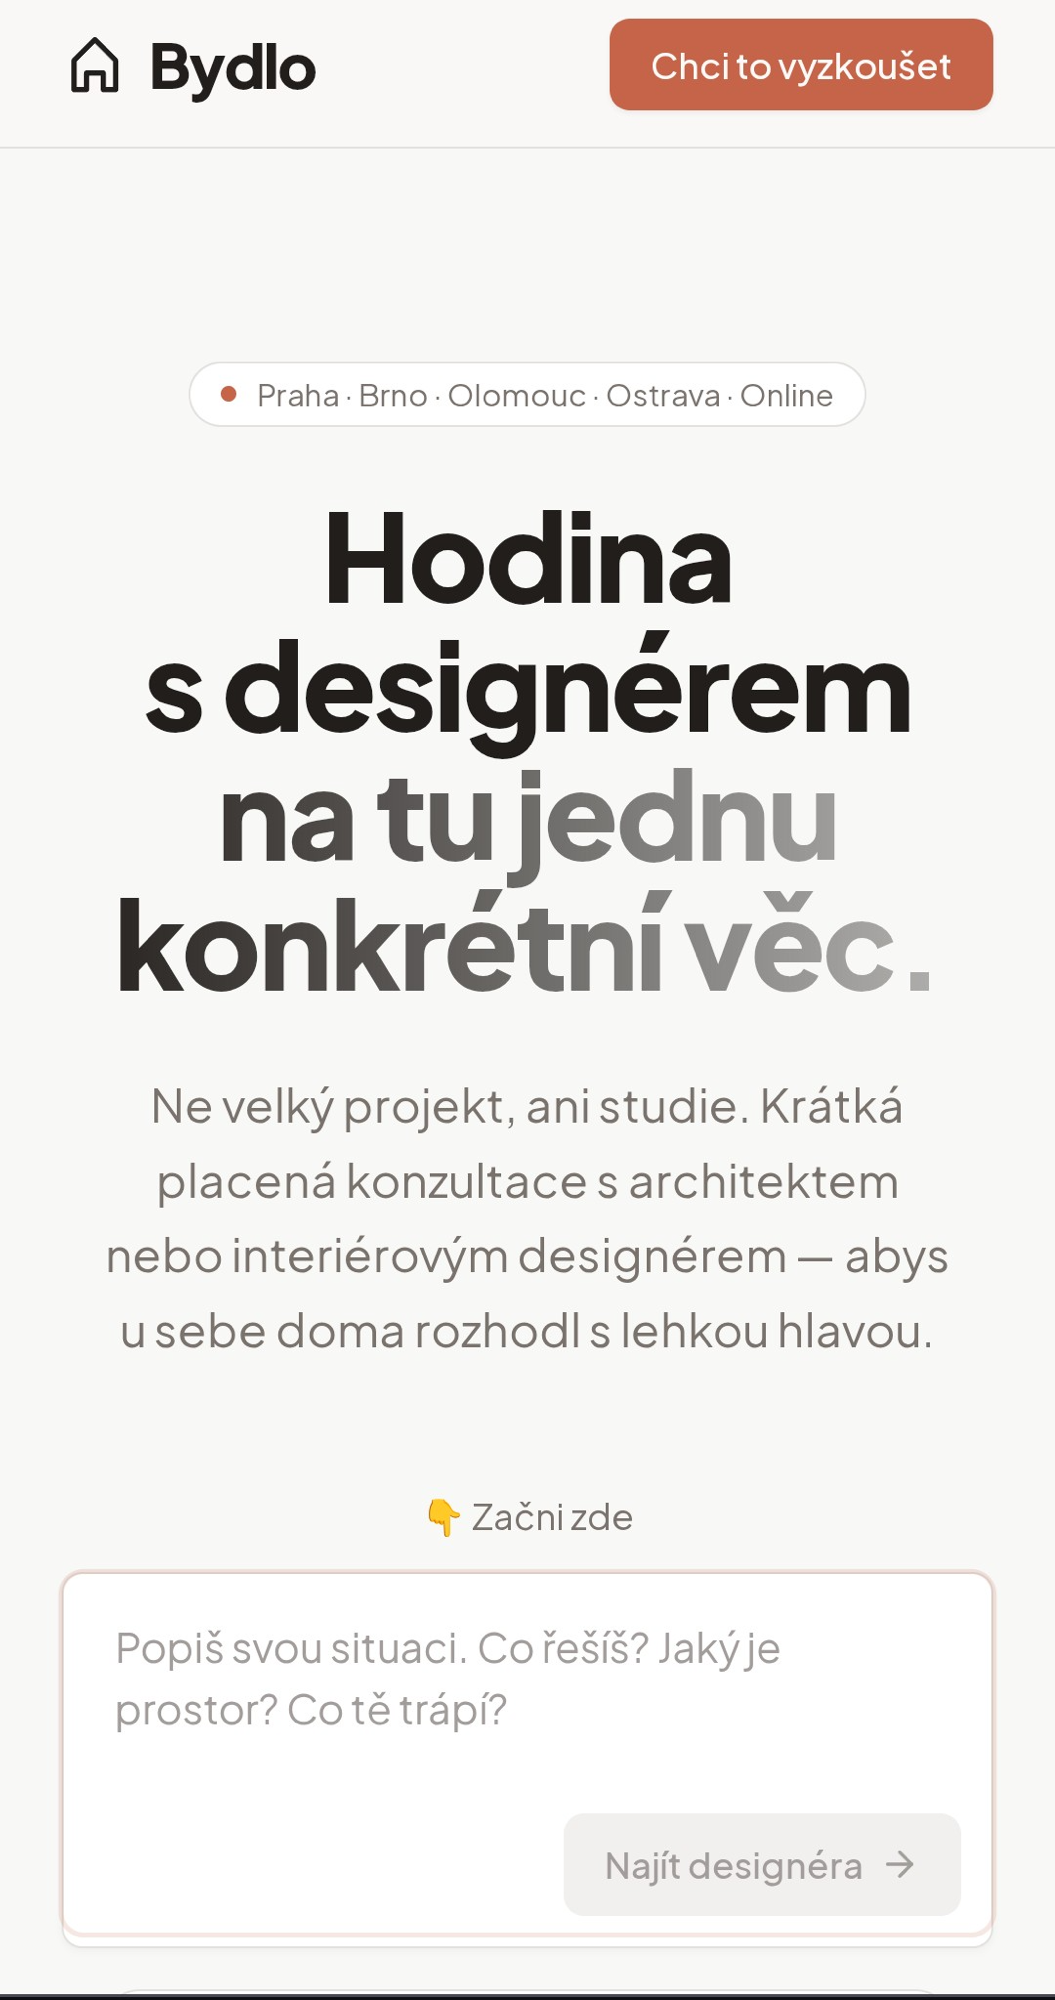
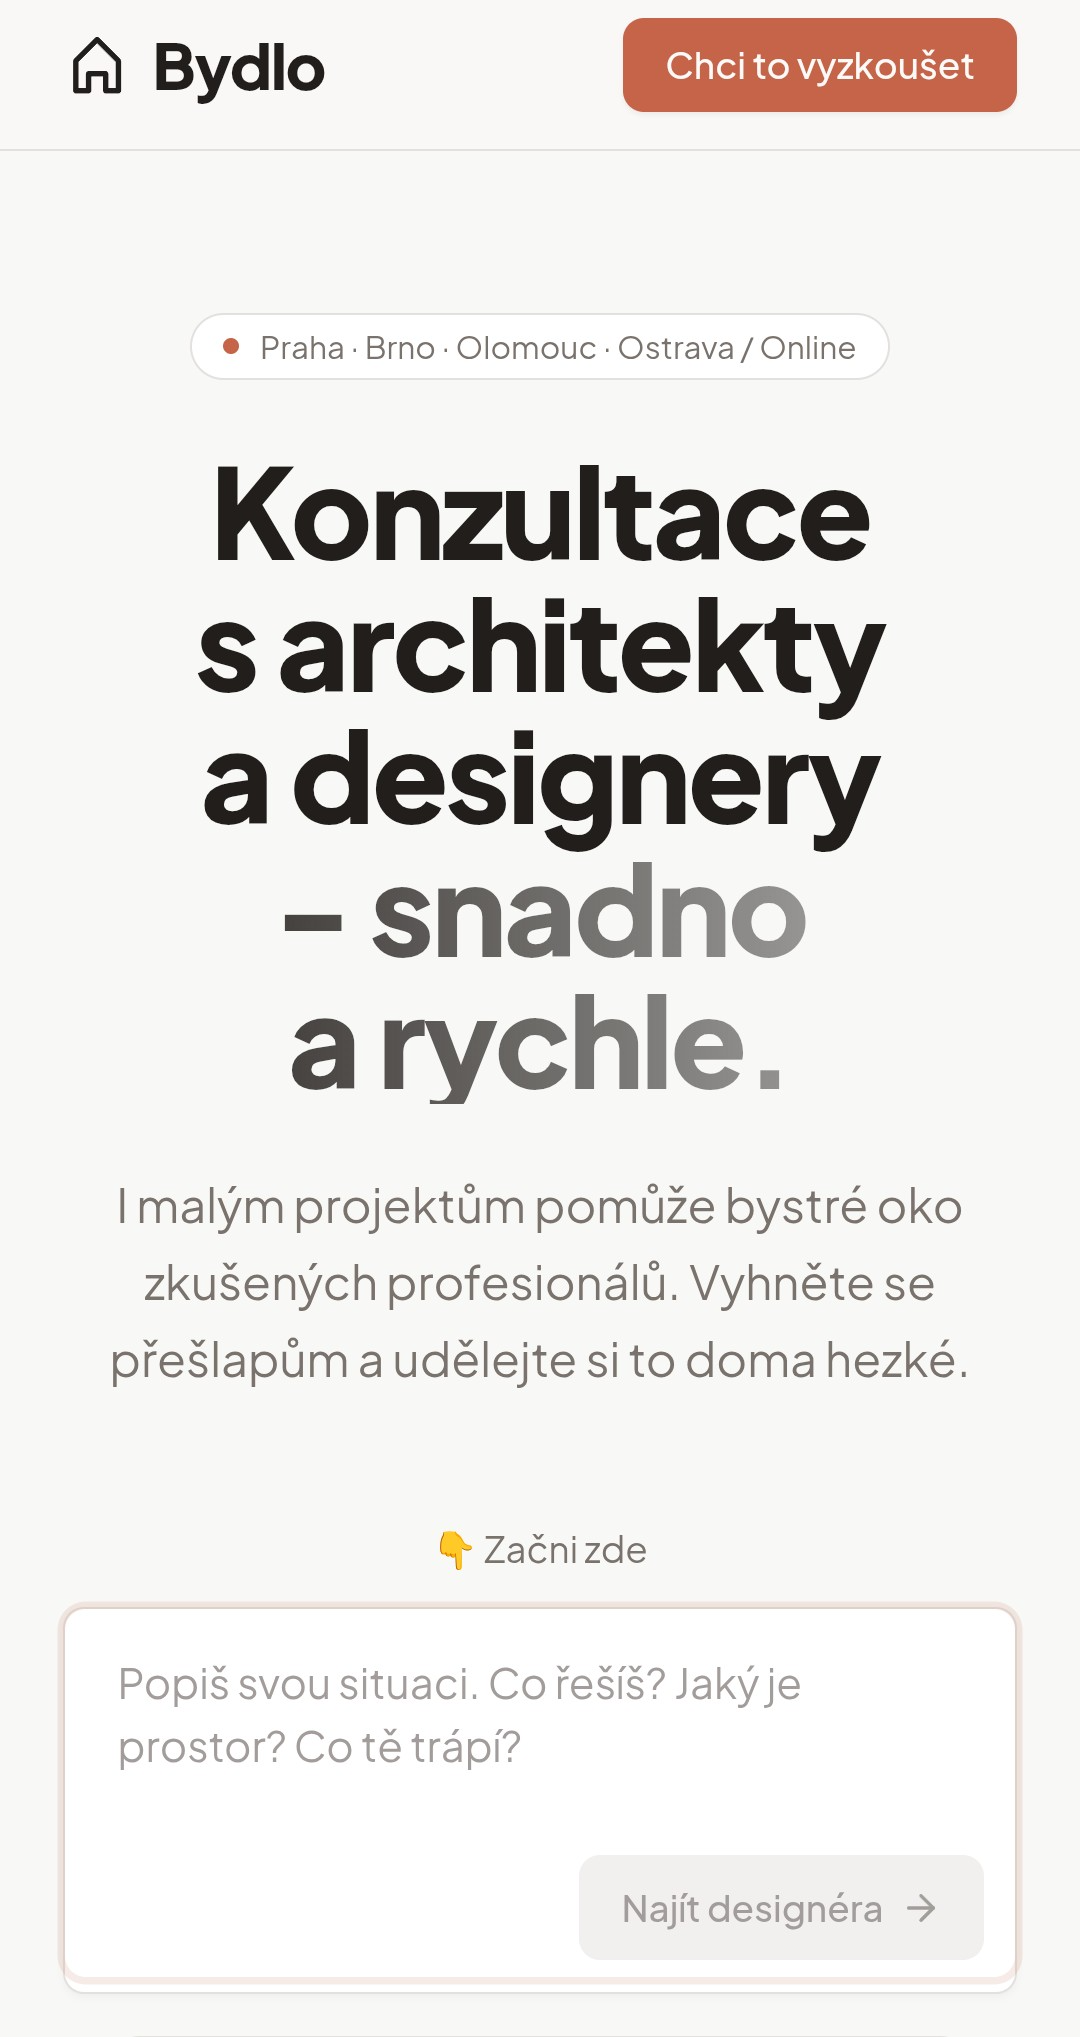
wip

diff --git a/docs/ux-monday-26/index.html b/docs/ux-monday-26/index.html
@@ -564,9 +564,9 @@ Optional: Opus vs Sonnet comparison on one coding task.</aside>
 <section class="layout-quote" data-switch-to-claude>
   <h2 id="my-way-to-code">My way to code</h2>
   <ul>
+    <li>Read second brain on coding best practices.</li>
     <li>Write 4-5 codes yourself first - give the AI a starting direction</li>
     <li>"Here are my initial codes. Here's my research objective. Generate a full codebook."</li>
-    <li>Read second brain on coding best practices.</li>
     <li>Iterate until solid. Then hand over the transcripts.</li>
   </ul>
   <div class="quote-block">
@@ -819,6 +819,7 @@ Reference the Michael Riddering LinkedIn post here - "someone described this bet
         <li>Helping people navigate entry into the prison</li>
         <li>One day late to arrive? You better not</li>
         <li>Design as a tool for a systemic change</li>
+        <li>Running workshops in prison</li>
       </ul>
     </div>
     <figure style="margin:8px -9rem -180px 0; overflow:visible;">
@@ -849,7 +850,7 @@ Reference the Michael Riddering LinkedIn post here - "someone described this bet
   <h2 id="innovative-teams-in-public-services">Innovative teams in public services</h2>
   <div class="cols cols--70-30">
     <ul>
-      <li>Research with fellow DIS KISK students</li>
+      <li>Research with fellow KISK students</li>
       <li>How teams change public administration from the inside?</li>
       <li>Ideation workshop for ministry secretaries (May 2025)</li>
       <li>Co-created with chief state secretary</li>

diff --git a/pages/presentations/ux-monday-26/index.html b/pages/presentations/ux-monday-26/index.html
@@ -539,9 +539,9 @@ Optional: Opus vs Sonnet comparison on one coding task.</aside>
 <section class="layout-quote" data-switch-to-claude>
   <h2>My way to code</h2>
   <ul>
+    <li>Read second brain on coding best practices.</li>
     <li>Write 4-5 codes yourself first - give the AI a starting direction</li>
     <li>"Here are my initial codes. Here's my research objective. Generate a full codebook."</li>
-    <li>Read second brain on coding best practices.</li>
     <li>Iterate until solid. Then hand over the transcripts.</li>
   </ul>
   <div class="quote-block">
@@ -794,6 +794,7 @@ Reference the Michael Riddering LinkedIn post here - "someone described this bet
         <li>Helping people navigate entry into the prison</li>
         <li>One day late to arrive? You better not</li>
         <li>Design as a tool for a systemic change</li>
+        <li>Running workshops in prison</li>
       </ul>
     </div>
     <figure style="margin:8px -9rem -180px 0; overflow:visible;">
@@ -824,7 +825,7 @@ Reference the Michael Riddering LinkedIn post here - "someone described this bet
   <h2>Innovative teams in public services</h2>
   <div class="cols cols--70-30">
     <ul>
-      <li>Research with fellow DIS KISK students</li>
+      <li>Research with fellow KISK students</li>
       <li>How teams change public administration from the inside?</li>
       <li>Ideation workshop for ministry secretaries (May 2025)</li>
       <li>Co-created with chief state secretary</li>

diff --git a/docs/notes/10 - 🧠 Knowledge/3 - 📚 Resources/Design/Discovery/Experiments/index.html b/docs/notes/10 - 🧠 Knowledge/3 - 📚 Resources/Design/Discovery/Experiments/index.html
@@ -200,7 +200,7 @@
 </ul>
 </li>
 <li>Can be constructed with the help of <a href="/notes/10 - 🧠 Knowledge/3 - 📚 Resources/Design/Discovery/Hypothesis/">Hypothesis</a></li>
-<li>Contradictory to <a href="#" class="pending-link">Research-MOC</a> – experiment has a clearly defined hypothesis</li>
+<li>Contradictory to <a href="/notes/02 - 📩 Inbox/Research-MOC/">Research-MOC</a> – experiment has a clearly defined hypothesis</li>
 <li>Typically compares two or more variants and systematically watches differences between them</li>
 </ul>
 <h1 id="types">Types</h1>

diff --git a/docs/notes/10 - 🧠 Knowledge/3 - 📚 Resources/Design/Discovery/Insight/index.html b/docs/notes/10 - 🧠 Knowledge/3 - 📚 Resources/Design/Discovery/Insight/index.html
@@ -194,7 +194,7 @@
 
     <ul>
 <li>writing insights well is not an easy task</li>
-<li>insights are usually results of <a href="/notes/10 - 🧠 Knowledge/3 - 📚 Resources/Design/Discovery/Discovery MOC/">Discovery MOC</a> or <a href="#" class="pending-link">Research-MOC</a></li>
+<li>insights are usually results of <a href="/notes/10 - 🧠 Knowledge/3 - 📚 Resources/Design/Discovery/Discovery MOC/">Discovery MOC</a> or <a href="/notes/02 - 📩 Inbox/Research-MOC/">Research-MOC</a></li>
 <li><em>is a non-obvious observation grounded in data that explains the &quot;why&quot; behind consumer motivations and human behavior</em></li>
 <li><em>the goal of every insight statement is to help stakeholders understand users' emotional experiences and inspire well-defined product ideation</em></li>
 <li>Data refers to unanalyzed user observations, findings capture patterns among data points, and <em>insights are the actionable opportunities based on research and business goals.</em></li>